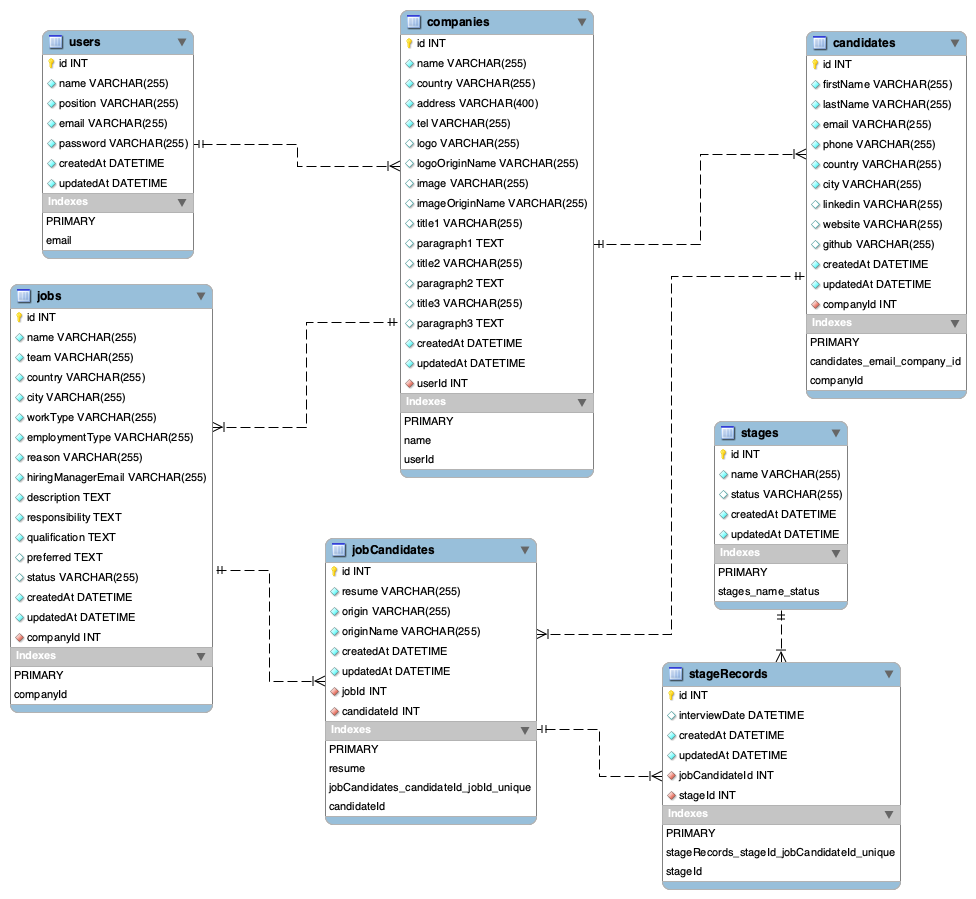
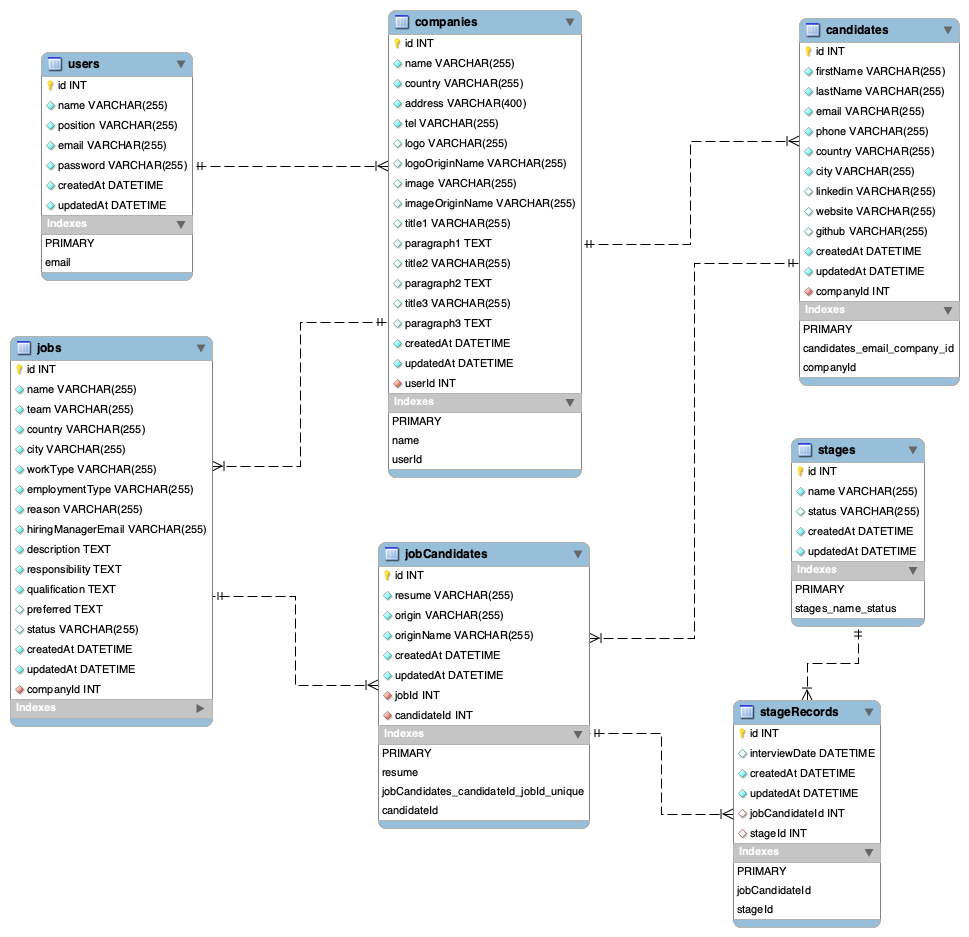
fix database and local time zone logic - remove the uniqueness of in jobCandidateId and stageId stateRecord table - convert utc time zone to local time zone

diff --git a/models/candidateModel.js b/models/candidateModel.js
@@ -30,49 +30,58 @@ const findCandidateByEmailAndCompanyId = async (email, companyID) => {
 
 const getCandidatesToJobToStage = async (userID, limit, offset) => {
   const allCandidateJobStage = await sequelize.query(
-    `SELECT c.id ,c.firstName, c.lastName, GROUP_CONCAT(
-      CONCAT_WS(",,", jc.id, jobs.name, jobs.status, jc.resume, jc.origin, jc.createdAt, stages.name, COALESCE(stages.status, 'N/A'), COALESCE(sr.interviewDate, 'N/A')) ORDER BY sr.createdAt DESC SEPARATOR ",,") AS jobDetails FROM candidates c 
-      INNER JOIN jobCandidates jc ON c.id = jc.candidateID 
-      INNER JOIN jobs ON jobs.id = jc.jobId 
-      INNER JOIN (SELECT jobCandidateId, MAX(sr.createdAt) AS maxCreatedAt 
-      FROM stageRecords sr GROUP BY jobCandidateId) latest_sr ON latest_sr.jobCandidateId= jc.id
-      INNER JOIN stageRecords sr ON sr.jobCandidateId = jc.id AND sr.createdAt = latest_sr.maxCreatedAt
-      INNER JOIN stages ON stages.id = sr.stageId
-      INNER JOIN companies ON c.companyId = companies.id 
-      WHERE companies.userId = ?
-      GROUP BY c.id 
-      ORDER BY MAX(jc.createdAt) DESC
-      LIMIT ? OFFSET ?`,
+    `SELECT c.id, c.firstName, c.lastName, jc.id AS jobCandidateId, 
+      j.name, j.status AS jobStatus, jc.resume, jc.origin, jc.createdAt, s.name AS stage, 
+      COALESCE(s.status, '-') AS status, 
+      COALESCE(sr.interviewDate, '-') AS interviewDate
+    FROM candidates c
+    INNER JOIN jobCandidates jc ON c.id = jc.candidateID
+    INNER JOIN jobs j ON j.id = jc.jobId
+    INNER JOIN stageRecords sr ON sr.jobCandidateId = jc.id
+    INNER JOIN (
+      SELECT jobCandidateId, MAX(sr.createdAt) AS latestRecord
+        FROM stageRecords sr 
+        GROUP BY jobCandidateId
+    ) latestSr ON latestSr.jobCandidateId = sr.jobCandidateId AND latestSr.latestRecord = sr.createdAt
+    INNER JOIN stages s ON s.id = sr.stageId
+    INNER JOIN companies ON c.companyId = companies.id
+    WHERE companies.userId = ?
+    ORDER BY jc.createdAt DESC, c.id ASC
+    LIMIT ? OFFSET ?`,
     {
       replacements: [userID, limit, offset],
       type: QueryTypes.SELECT
     }
   )
   if (allCandidateJobStage.length < 1) return allCandidateJobStage
-  const sortedCandidates = allCandidateJobStage.map(({id, firstName, lastName, jobDetails}) => {
-    return {
-      id,
-      firstName,
-      lastName,
-      jobs: jobDetails.split(',,').reduce((acc, curr, index, arr) => {
-        if (index % 9 === 0) {
-          const interviewTime  = arr[index+8]!== 'N/A'? arr[index+8].split(':')[0]+':'+arr[index+8].split(':')[1]: arr[index+8]
-          acc.push({
-            jobCandidateId: parseInt(curr),
-            jobName: arr[index+1],
-            jobStatus: arr[index+2],
-            resume: `${cloudfrontUrl}/${arr[index+3]}`,
-            origin: arr[index+4],
-            appliedDate: arr[index+5],
-            stage: arr[index+6],
-            stageStatus: arr[index+7],
-            interviewDate: interviewTime
-          })
-        }
-        return acc
-      }, [])
+
+  const sortedCandidates = allCandidateJobStage.reduce((acc, candidate) => {
+    const candidateId = acc.findIndex((item)=> item.id === candidate.id)
+    const jobData = {
+      jobCandidateId: candidate.jobCandidateId,
+      jobName: candidate.name,
+      jobStatus: candidate.jobStatus,
+      resume: `${cloudfrontUrl}/${candidate.resume}`,
+      origin: candidate.origin,
+      appliedDate: candidate.createdAt,
+      stage: candidate.stage,
+      stageStatus: candidate.status,
+      interviewDate: candidate.interviewDate
     }
-  })
+    if(candidateId !== -1) {
+      acc[candidateId].jobs.push(jobData)
+    } else {
+      acc.push(
+        {
+          id: candidate.id,
+          firstName: candidate.firstName,
+          lastName: candidate.lastName,
+          jobs: [jobData]
+        }
+      )
+    }
+    return acc
+  }, [])
   return sortedCandidates
 }
 

diff --git a/public/js/pages/dashboard/dashboard.js b/public/js/pages/dashboard/dashboard.js
@@ -1,5 +1,6 @@
 import { renderErrorMsg } from "../../components/common/errorMsg.js";
 import { renderNavData, signout } from "../../components/common/navRecruiting.js";
+import { convertUtcToLocalDate } from "../../components/common/convertLocalDate.js";
 let page = 1
 const overViewTap = document.querySelector('#radio1')
 const allJobsTap = document.querySelector('#radio2')
@@ -50,7 +51,7 @@ function candidateStageSelection() {
     dateSelect.disabled = !statusSelect.disabled && (statusSelect.value.includes('Scheduled')) ? false: true
   })
   statusSelect.addEventListener('change', () => {
-    dateSelect.disabled = statusSelect.value.includes('Scheduled') || statusSelect.value=== 'Rescheduled' ? false: true
+    dateSelect.disabled = statusSelect.value.includes('Scheduled') || statusSelect.value === 'Rescheduled' ? false: true
   })
 }
 
@@ -92,8 +93,9 @@ function candidateStageUpdate() {
     const response = await fetch(stageApi, request)
     const result = await response.json()
     if (response.status === 200) {
-      location.reload()
       allCandidatesTap.checked
+      jobCandidateList = []
+      getAllCandidates()
     } else {
       renderErrorMsg(result)
     }
@@ -270,15 +272,15 @@ function renderCandidatesAndJobs(candidateData) {
         { content: job.stage, data: 'Stage'},
         { content: job.stageStatus, data: 'Status'},
         { content: job.interviewDate, data: 'Interview'},
-        { content: job.appliedDate.split(' ')[0], data: 'Applied Date'},
+        { content: convertUtcToLocalDate(job.appliedDate), data: 'Applied Date'},
         { content: job.origin, data: 'Origin' }
       ]
       jobEle.forEach((ele) => {
         let element = li.cloneNode()
-        if (ele.content.includes('N/A')) {
-          element.style.fontSize = '12px'
-          element.style.color = 'var(--third-text-color)'
-        }
+        // if (ele.content.includes('N/A')) {
+        //   element.style.fontSize = '12px'
+        //   element.style.color = 'var(--third-text-color)'
+        // }
         element.textContent = ele.content
         element.dataset.title = ele.data
         gridTr.appendChild(element)
@@ -319,7 +321,7 @@ function renderTeamsAndJobs(jobData) {
         { content: job.applicants },
         { content: job.interviewCount},
         { content: job.offerCount },
-        { content: job.updatedAt.split('T')[0]}
+        { content: convertUtcToLocalDate(job.updatedAt)}
       ]
       jobEle.forEach(ele => {
         let element = li.cloneNode()
@@ -386,3 +388,4 @@ function showResume() {
     }
   })
 }
+

diff --git a/models/careerModel.js b/models/careerModel.js
@@ -1,5 +1,4 @@
 import { Company, Job} from '../models/db.js'
-import { Sequelize } from 'sequelize'
 import dotenv from 'dotenv'
 
 
@@ -26,40 +25,46 @@ const careerCompany = async (companyName) => {
 
 const careerAllJobs = async (company) => {
   const allJobs = await Job.findAll({
-    attributes:['team', [Sequelize.fn('GROUP_CONCAT', 
-    Sequelize.literal('CONCAT_WS(",,", job.id, job.name, job.country, job.city, workType, employmentType, job.updatedAt) ORDER BY job.updatedAt DESC SEPARATOR ",,"')), 'jobs']],
-    include:[
-      {
+    attributes: [
+      'team', 'id', 'name', 'country', 'city', 'workType', 'employmentType', 'updatedAt'
+    ],
+    include: [
+      {      
         model: Company,
-        attributes:[],
+        attributes: [],
         where: {name: company}
       }
     ],
     where: {status: 'Open'},
-    group: ['team' ],
-    raw: true
+    order: [['team', 'ASC'], ['updatedAt', 'DESC']]
   })
+
   if (allJobs.length < 1) return allJobs
-  const allJobsByTeams = allJobs.map(({team, jobs}) => {
-    return {
-      team,
-      jobs: jobs.split(',,').reduce((acc, curr, index, arr) => {
-        if (index % 7 === 0) {
-          acc.push({
-            id: parseInt(curr),
-            name: arr[index+1],
-            country: arr[index+2],
-            city: arr[index+3],
-            workType: arr[index+4],
-            employmentType: arr[index +5],
-            updatedAt: arr[index+6]
-          })
-        }
-        return acc
-      }, [])
+  const allJobsByTeams = {}
+  allJobs.forEach(job => {
+    const team = job.team
+    if (!allJobsByTeams[team]) {
+      allJobsByTeams[team] = []
     }
+    allJobsByTeams[team].push({
+      id: job.id,
+      name: job.name,
+      country: job.country,
+      city: job.city,
+      workType: job.workType,
+      employmentType: job.employmentType,
+      updatedAt: job.updatedAt
+    })
   })
-  return allJobsByTeams
+  const sortedJobs = Object.keys(allJobsByTeams).map((team) => {
+    return {
+      team: team,
+      jobs:allJobsByTeams[team]
+    }
+
+  })
+
+  return sortedJobs
 }
 
 

diff --git a/models/jobModel.js b/models/jobModel.js
@@ -55,14 +55,16 @@ const allJobs = async (offerStage, userID, limit, offset) => {
   }
 }
 
-const overviewJobs = async (userID) => {
+const overviewJobs = async (userID, timezoneOffset) => {
+  const offerStage = 22
+  const toTZ = timezoneOffset < 0 ? `+0${-(timezoneOffset / 60)}:00` : `${-(timezoneOffset / 60)}:00`
   const applicantInterviewOfferCount = await sequelize.query(
     `SELECT jobs.id, jobs.name,
-      COUNT(DISTINCT CASE WHEN DATE(jc.createdAt) = CURDATE() THEN jc.id END) AS applicantToday, 
-      COUNT(DISTINCT CASE WHEN jc.createdAt >= CURDATE() - INTERVAL 7 DAY THEN jc.id END) AS applicantPast7Day,
+      COUNT(DISTINCT CASE WHEN DATE(CONVERT_TZ(jc.createdAt, '+00:00', ?)) = CURDATE() THEN jc.id END) AS applicantToday, 
+      COUNT(DISTINCT CASE WHEN CONVERT_TZ(jc.createdAt, '+00:00', ?) >= CURDATE() - INTERVAL 7 DAY THEN jc.id END) AS applicantPast7Day,
       COUNT(DISTINCT CASE WHEN sr.interviewDate = CURDATE() THEN sr.jobCandidateId END) AS interviewToday,
-      COUNT(DISTINCT CASE WHEN CURDATE() < sr.interviewDate <= CURDATE() + INTERVAL 7 DAY THEN sr.jobCandidateId END) AS interviewNext7Day,
-      COUNT(DISTINCT CASE WHEN sr.stageId = 26 THEN sr.jobCandidateId END) AS offerPast7Day
+      COUNT(DISTINCT CASE WHEN sr.interviewDate > CURDATE() AND sr.interviewDate <= CURDATE() + INTERVAL 7 DAY THEN sr.jobCandidateId END) AS interviewNext7Day,
+      COUNT(DISTINCT CASE WHEN sr.stageId = ? THEN sr.jobCandidateId END) AS offerPast7Day
     FROM jobCandidates jc
     RIGHT JOIN jobs ON jc.jobId = jobs.id 
     LEFT JOIN(
@@ -78,7 +80,7 @@ const overviewJobs = async (userID) => {
     WHERE jobs.companyId = ? AND jobs.status = 'Open'
     GROUP BY jobs.id, jobs.name WITH ROLLUP`,
     {
-      replacements:[userID],
+      replacements:[toTZ, toTZ, offerStage, userID],
       type: QueryTypes.SELECT
     }
   )

diff --git a/controllers/authController.js b/controllers/authController.js
@@ -7,14 +7,13 @@ import jwt from "jsonwebtoken"
 
 const handleRegister = async (req, res) => {
   const error = authError(validationResult(req)) 
-  console.log(req.body)
   if (error) return res.status(400).json({'error': true, 'message': error})
   const userInfo = req.body
 
   try {
     const user = await userRegister(userInfo)
     const token = jwt.sign(
-      {'id': user.id}, process.env.ACCESS_TOKEN_SECRET, {expiresIn: '1d'}
+      {'id': user.id, 'timezoneoffset': userInfo.timezoneoffset}, process.env.ACCESS_TOKEN_SECRET, {expiresIn: '1d'}
     )
     res.cookie('token', token, {httpOnly: true, maxAge: 24*60*60*1000})
     res.status(201).json({ 'ok': true })
@@ -36,7 +35,7 @@ const handleLogin = async (req, res) => {
     if (invalidUser) return res.status(401).json({'error':true, 'message': invalidUser.message})
 
     const token = jwt.sign(
-      {'id': foundUser.id}, process.env.ACCESS_TOKEN_SECRET, { expiresIn: '1d' }
+      {'id': foundUser.id, 'timezoneOffset': req.body.timezoneOffset}, process.env.ACCESS_TOKEN_SECRET, { expiresIn: '1d' }
     )
     res.cookie('token', token, {httpOnly: true, maxAge: 24*60*60*1000})
     res.status(200).json({'ok': true})

diff --git a/public/js/pages/careers/jobOpenings.js b/public/js/pages/careers/jobOpenings.js
@@ -1,4 +1,5 @@
 import { getCareersCompany, renderCompanyLogo } from "../../components/common/navCareers.js";
+import { convertUtcToLocalDate } from "../../components/common/convertLocalDate.js";
 const conatiner = document.querySelector('.container')
 const companyName = window.location.pathname.split('/')[2]
 
@@ -44,7 +45,7 @@ function renderOpenings(jobData) {
 
       const updatedAt = document.createElement('small')
       updatedAt.className = 'updatedAt'
-      updatedAt.textContent = job.updatedAt.split(' ')[0]
+      updatedAt.textContent = convertUtcToLocalDate(job.updatedAt)
 
       const jobInfo = div.cloneNode()
       jobInfo.className = 'info'

diff --git a/models/db.js b/models/db.js
@@ -245,16 +245,11 @@ JobCandidate.belongsTo(Job)
 Candidate.hasMany(JobCandidate)
 JobCandidate.belongsTo(Candidate)
 
-JobCandidate.belongsToMany(Stage, {through: StageRecord, foreignKey: {name: 'jobCandidateId', allowNull: false}})
-Stage.belongsToMany(JobCandidate, {through: StageRecord, foreignKey: {name: 'stageId', allowNull: false}})
-
-JobCandidate.hasMany(StageRecord)
+JobCandidate.hasMany(StageRecord, {foreignKey: {allowNull: false}})
 StageRecord.belongsTo(JobCandidate)
 
-Stage.hasMany(StageRecord);
+Stage.hasMany(StageRecord, {foreignKey: {allowNull: false}});
 StageRecord.belongsTo(Stage);
-
-
 
 
 

diff --git a/middleware/verifyUser.js b/middleware/verifyUser.js
@@ -7,6 +7,7 @@ const verifyJWT = (req, res, next) => {
   jwt.verify(token, process.env.ACCESS_TOKEN_SECRET, (err, decode) => {
     if (err) return res.redirect('/')
     req.id = decode.id
+    req.timezoneOffset = decode.timezoneOffset
     next() 
   }) 
 }
@@ -17,6 +18,7 @@ const verifyLogin = (req, res, next) => {
   jwt.verify(token, process.env.ACCESS_TOKEN_SECRET, (err, decode) => {
     if (err) return res.status(403).json({'error': true, 'message': 'forbidden'})
     req.id = decode.id
+    req.timezoneOffset = decode.timezoneOffset
     next() 
   })  
 }

diff --git a/models/applicationModel.js b/models/applicationModel.js
@@ -45,11 +45,11 @@ const jobApplication = async (jobID, candidate, resume) => {
     Body: resume.data,
     ContentType: resume.mimetype
   }
+  await resumeAdded.createStageRecord({stageId: 1})
+
   const putCommand = new PutObjectCommand(params);
   await s3.send(putCommand)
 
-  const initialStage = await Stage.findByPk(1)
-  await resumeAdded.addStage(initialStage)
 }
 
 export { jobApplication}

diff --git a/controllers/jobController.js b/controllers/jobController.js
@@ -80,8 +80,9 @@ const updateJob = async (req, res) => {
 
 const getOverviewJobs = async (req, res) => {
   const userID = req.id
+  const timezoneOffset = req.timezoneOffset
   try {
-    const sortedJobs = await  overviewJobs(userID)
+    const sortedJobs = await  overviewJobs(userID, timezoneOffset)
 
     if (sortedJobs.length < 1) return res.status(200).json({'data': null}) 
 

diff --git a/public/js/pages/auth/signup.js b/public/js/pages/auth/signup.js
@@ -9,11 +9,14 @@ signupForm()
 
 
 
+
 function signupForm () {
   signUpForm.addEventListener('submit', (e) => {
     e.preventDefault()
     errorGroup.innerHTML = ''
+    const timezoneOffset = new Date().getTimezoneOffset()
     const formData = new FormData(signUpForm)
+    formData.append('timezoneOffset', timezoneOffset)
     userSignUp(formData)
   })
 }

diff --git a/models/stageModel.js b/models/stageModel.js
@@ -9,7 +9,6 @@ const addNewStageRecord = async (jobCandidateIdList, stage, interviewDate) => {
   const stageRecordAttributes = []
   for (const id of jobCandidateIdList) {
     if (!await JobCandidate.findByPk(id)) throw {'message': 'Not a valid application'}
-
     const data = {
       jobCandidateId: id,
       stageId: foundStage.id,
